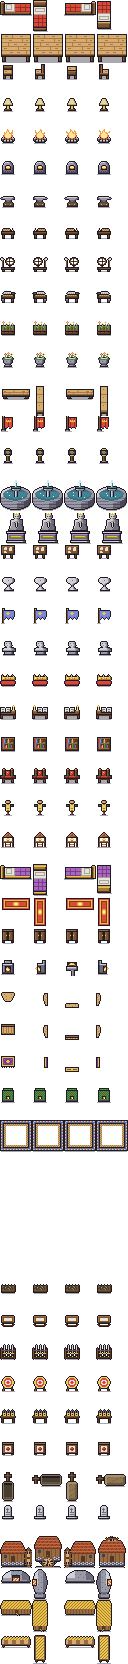
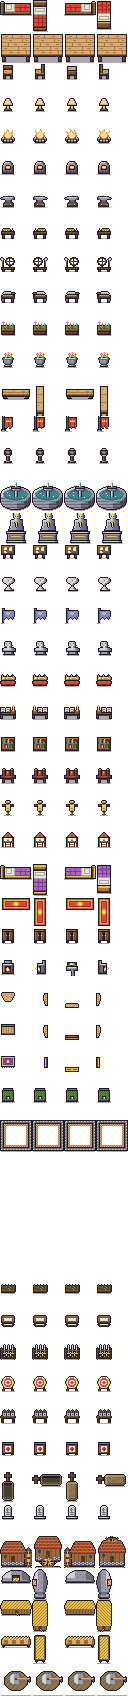
Grain and the mill, phase 5: the animal mill
With the Stable and the Mill, the animal mill: 2x2, 15 stone and 5 wood,
in the open. The miller hitches the nearest grown-up, fed cow to the
beam; she walks over and circles the millstone while he pours, 8 s for
2 flour, in winter too. Without such a cow the mill stands still and its
menu says so. The cow is held like one being milked and goes back to
grazing when the miller is done.

Claude-Session: https://claude.ai/code/session_01752LPAN6ZsYGVVVStQWchm

diff --git a/tools/make_sprites.py b/tools/make_sprites.py
@@ -4619,6 +4619,27 @@ def manger():
     return [front, side, front, side]
 
 
+# --- La macina a trazione (GDD 4.4.7) ---
+
+def animal_mill():
+    """Macina a trazione 32x32 (2x2), uguale girata: la mola di pietra sulla base, la stanga di legno che esce verso
+    destra (dove la mucca la tira girando)"""
+    px = {}
+    for (x, y) in disc(16, 17, 11.5, 9.5):  # la base, una pista di terra battuta
+        px[(x, y)] = "(" if (x + y) % 5 else ")"
+    for (x, y) in disc(16, 15, 6.5, 5.5):  # la mola
+        dx = x + 0.5 - 16
+        px[(x, y)] = "u" if dx < -2 else ("R" if dx > 3 else "r")
+    for (x, y) in disc(16, 15, 1.5, 1.5):  # il perno
+        px[(x, y)] = "W"
+    for x in range(17, 30):  # la stanga
+        px[(x, 14)] = "c"
+        px[(x, 15)] = "C"
+    for y in range(13, 18):  # il giogo in fondo
+        px[(29, y)] = "w"
+    return outlined_wh(px, 32, 32)
+
+
 def frames(block, height=16, count=3, width=16):
     """Blocco di testo -> lista di fotogrammi, ognuno `height` righe da `width` caratteri."""
     rows = [line.split() for line in block.strip().splitlines()]
@@ -4940,7 +4961,7 @@ def furniture_sheet():
     filatoio, banco del falegname, poi le decorazioni: aiuola, fioriera, panca, stendardo, lampione, fontana, statua;
     la bacheca; i cimeli: calice, stendardo antico, busto, corona; scrittoio, libreria, trono, fantoccio, torre di guardia, baldacchino, tappeto, armadio, focolare, pelli alle pareti, portiera, arazzo, stufa a olle, fossa del ghiaccio, quattro righe vuote (le strutture che vengono dopo
     in Build), il cumulo del compost, la culla; la rastrelliera, il bersaglio e il banco degli scassi; l'armadio dei rimedi,
-    la tomba, il memoriale, il mulino ad acqua, il forno, il pollaio, la mangiatoia (come Build in main.gd);
+    la tomba, il memoriale, il mulino ad acqua, il forno, il pollaio, la mangiatoia, la macina a trazione (come Build in main.gd);
     colonne: quarti di giro in senso orario (per fuoco, stendardo e fontana, fotogrammi), ognuno in alto a sinistra nel suo riquadro 32x32."""
     bed, chair, chair_left = art(BED, 32, 16), art(CHAIR, 16, 16), art(CHAIR_LEFT, 16, 16)
     table, lamp, anvil = art(TABLE, 32, 32), art(LAMP, 16, 16), art(ANVIL, 16, 16)
@@ -4983,7 +5004,7 @@ def furniture_sheet():
     rows += [[art(MEDICINE_CHEST, 16, 16)] * 4]
     rows += [[grave(False, True), grave(False, False), grave(True, True), grave(True, False)]]
     rows += [[art(MEMORIAL, 16, 16)] * 4]
-    rows += [water_mill(), oven(), coop(), manger()]
+    rows += [water_mill(), oven(), coop(), manger(), [animal_mill()] * 4]
     slot = lambda g: [line.ljust(32, ".") for line in g] + ["." * 32] * (32 - len(g))
     return [line for row in rows for line in side_by_side([slot(g) for g in (row or [[]] * 4)])]
 

diff --git a/docs/GDD.md b/docs/GDD.md
@@ -1020,9 +1020,9 @@ d'estate pascolano, d'inverno stanno nella stalla col fieno tagliato d'estate, e
   mugnaio (lavoro Produrre, abilità cucinare) ci porta il grano: 2 grano → 2 farina, 4 s a livello 5; non si rovina
   mai, e all'aperto il comfort non conta. Si macina finché in giro c'è meno farina di quanta ne chiede il menu del
   mulino (all'inizio 10). Col torrente gelato la ruota si ferma (lo dice il menu). La farina non marcisce.
-- **Macina a trazione** (mobile 3x3, 15 pietra e 5 legna, all'aperto, con la Stalla e il Mulino): una mola di pietra
-  con la stanga, accanto a un pascolo o dentro. Per macinare il mugnaio va a prendere una mucca adulta e sazia del
-  pascolo e la attacca alla stanga: lei gira, lui versa il grano. 2 grano → 2 farina in 8 s, anche d'inverno.
+- **Macina a trazione** (mobile 2x2, 15 pietra e 5 legna, all'aperto, con la Stalla e il Mulino): una mola di pietra
+  con la stanga. Per macinare il mugnaio attacca alla stanga la mucca adulta e sazia più vicina: lei ci va e gira, lui
+  versa il grano. 2 grano → 2 farina in 8 s, anche d'inverno. Senza una mucca così sta ferma (lo dice il menu).
 - **Forno di pietra** (mobile 2x1, 20 pietra, in una cucina; scalda la stanza come il fuoco da campo): ha il suo menu,
   come le altre postazioni (4.4.2). "Vegetali" sono tutti i crudi dell'orto e dei cespugli: bacche, rape, cavoli, fave.
 
@@ -1108,7 +1108,7 @@ d'estate pascolano, d'inverno stanno nella stalla col fieno tagliato d'estate, e
   pascolo; (4) la Stalla: stalla e mangiatoie, il fieno, l'inverno nella stalla, pecore e mucche, latte e formaggio,
   tosatura e lana, il letame; (5) la macina a trazione; (6) l'Apicoltura: arnia, miele, cera, candele; (7) il Banchetto
   reale.
-- **Stato**: fatte le fasi 1–4 il 2026-11-20 (test in `tests/test_grain.gd` e `tests/test_livestock.gd`): il torrente (`stream`, salvato: le partite
+- **Stato**: fatte le fasi 1–5 il 2026-11-20 (test in `tests/test_grain.gd` e `tests/test_livestock.gd`): il torrente (`stream`, salvato: le partite
   di prima non ce l'hanno, e lì il mulino non si fa), il grano nella pianificazione col Mulino, il mulino ad acqua e la
   farina. Il mulino è la prima postazione all'aperto: senza stanza, chi ci lavora sta fuori (`station_stand`), col
   comfort a metà (`station_comfort`); la ruota è il lato destro del disegno, girato in senso orario (`wheel_cells`).
@@ -1129,7 +1129,8 @@ d'estate pascolano, d'inverno stanno nella stalla col fieno tagliato d'estate, e
   lo portano per primo (`dest_cells`), anche dai magazzini se una mangiatoia ne vuole; chi mangia ne toglie uno ogni
   fieno intero (`eat_hay`). Le galline mangiano da una mangiatoia qualsiasi e lasciano il letame nel pascolo. Mungere,
   tosare e macellare tengono fermo l'animale (`handler`, `try_handle`). Il fieno si falcia nella colonna Coltivare (tasto
-  Z). Poi: i maiali che mangiano anche il marcio.
+  Z). La macina tiene la mucca come chi munge (`handler`); il mugnaio aspetta che arrivi, e mentre macina lei gira
+  attorno al centro della macina (`mill_hub`). Poi: i maiali che mangiano anche il marcio.
 
 ### 4.5 Mondo e tempo
 - Mappa a tile, singolo livello, ~100×100, con laghi e, nelle mappe nuove, un torrente (4.4.7).

diff --git a/docs/DA_FARE.md b/docs/DA_FARE.md
@@ -17,7 +17,7 @@
 | Stemma | 4.3.2 | base | linee, pellicce, ornamenti, motto, blasonatura |
 | Risorse ed edifici | 4.4 | fatto | vene d'oro, commercio |
 | Cibo e orto | 4.4.1 | fatto, coi concimi | — (il resto è in 4.4.7) |
-| Grano, forno e animali | 4.4.7 | fasi 1–4: torrente, grano, mulino ad acqua, forno, allevamento, stalla | macina, api, banchetto |
+| Grano, forno e animali | 4.4.7 | fasi 1–5: torrente, grano, mulini, forno, allevamento, stalla | api, banchetto |
 | Forgia e sartoria | 4.4.2 | fatto | ordini "fanne N", qualità degli oggetti |
 | Combattimento | 4.4.3 | fatto | predoni, medico e cure |
 | Avventurieri e rovine | 4.4.4 | fasi 1–3, chi resta, coloni in spedizione | vene d'oro, commercio, una rovina sulla mappa |
@@ -38,8 +38,8 @@ sfortune, la tregua). Ora si possono fare anche le leggi della dinastia (vedi Le
 
 Medicina e morte è fatta (4.2.2: erbe e unguento, infermeria e medico, tombe, Funerali e memoriale).
 
-1. **Cucina e animali** (in corso, 4.4.7) — fatti torrente, grano, mulino, forno, allevamento e stalla; poi la macina
-   a trazione, l'Apicoltura, il Banchetto reale.
+1. **Cucina e animali** (in corso, 4.4.7) — fatti torrente, grano, mulini, forno, allevamento e stalla; poi
+   l'Apicoltura e il Banchetto reale.
 2. **Le leggi della dinastia** — Primogenitura (manca solo nella finestra), Successione elettiva, Matrimoni misti,
    Scuola: i loro sistemi ci sono già (vedi Leggi).
 
@@ -127,9 +127,8 @@ Dinastia (4.3.3, fatta): quello che resta.
 
 Deciso il 2026-11-20; fatte le fasi 1 (torrente, grano, mulino ad acqua), 2 (forno: pane, stufato, conserve) e 3
 (allevamento: pascolo, galline e maiali, pollaio, macello, mercante di bestiame), 4 (stalla: fieno, mangiatoie, pecore e
-mucche, latte, formaggio, lana, letame). Fasi ancora da fare:
+mucche, latte, formaggio, lana, letame), 5 (la macina a trazione). Fasi ancora da fare:
 
-- [ ] (5) La macina a trazione.
 - [ ] (6) L'Apicoltura: arnia, miele, cera, candele.
 - [ ] (7) Il Banchetto reale.
 - [ ] Poi: il mantello imbottito di lana al telaio (vedi Forgia); i maiali che mangiano anche il marcio.
